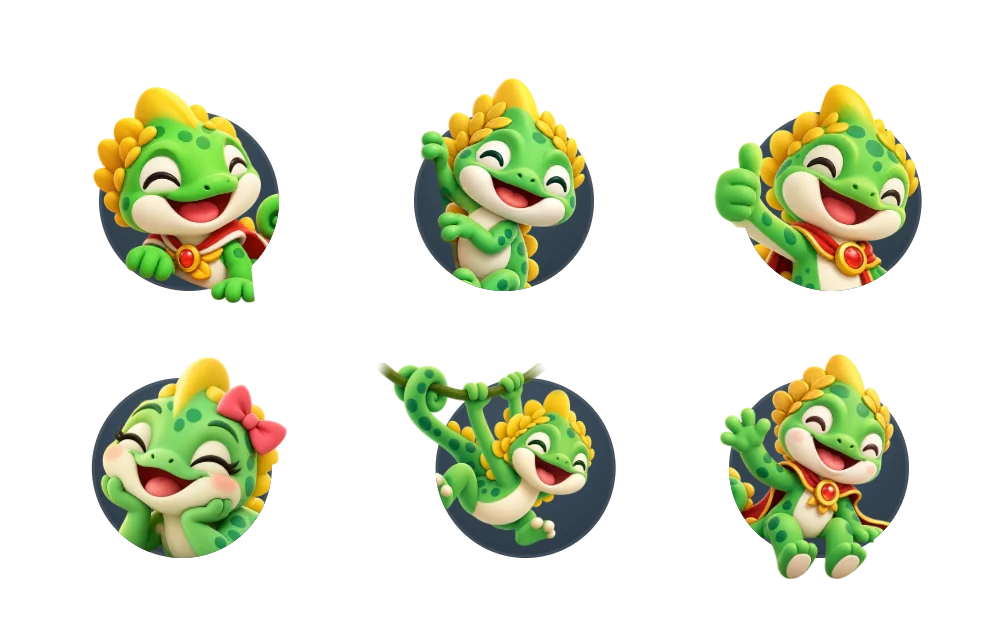
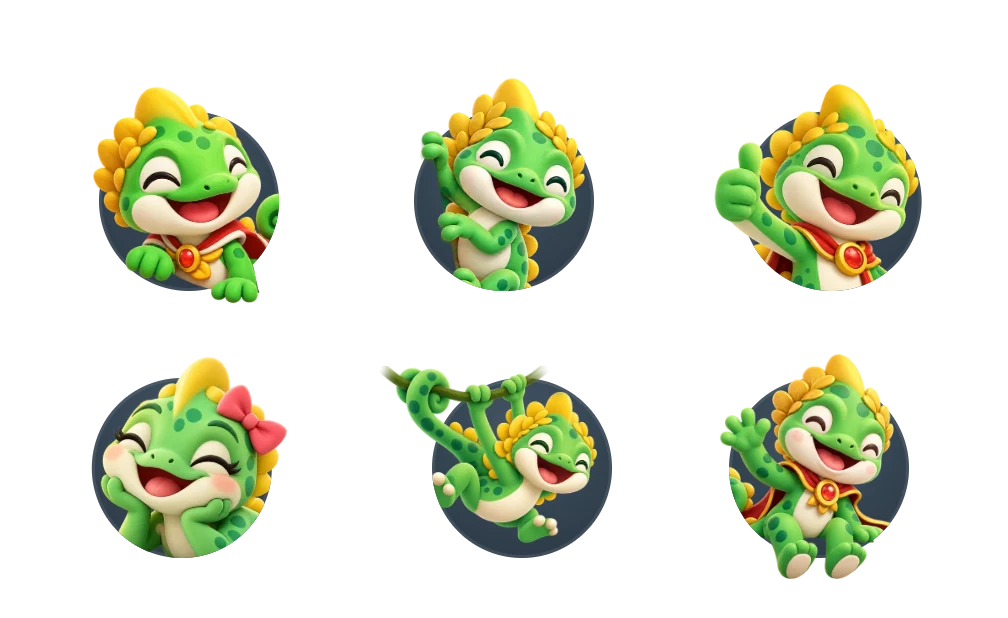
Profilbilder: Freiflaechen ohne gerade Schnitte durch die Figur
Review-Fix zu den Kumulio-Masken. Einige Kanten der Freiflaechen liefen
mitten durch Koerperteile und schnitten sie sichtbar gerade ab:
- Kumulio 1 gross: senkrechter Schnitt durch die rechte Pfote (Profil-Kopf,
  fremdes Profil, Auswahl) — die Kante folgt jetzt dem Arm-Umriss
- Kumulio 1 klein: ein Kamm-Blatt links stand als eckige "Fahne" ab
- Kumulio 3 gross: waagrechter Schnitt durch die helle Arm-Unterseite
- Kumulio 4 gross/klein: Rueckenzacke schraeg bzw. waagrecht angeschnitten
- Kumulio 6 klein: Blatt links und Kamm rechts leicht angeschnitten
Die Bilder im Update-Log sind mit den neuen Masken neu erzeugt.

Changed region(s): [[0.369, 0.5841, 0.6151, 0.8916], [0.246, 0.4304, 0.2768, 0.4919]]

diff --git a/public/app.js b/public/app.js
@@ -3035,7 +3035,8 @@ function refreshProfileTab() {
 //             (Rahmen = 1 × 1, Kreis-Mitte 0,5 / 0,5)
 //   frei    = Vielecke in Bild-Pixeln, die aus dem Kreis ragen duerfen
 //             (alles andere schneidet der Kreis ab). Die Kanten laufen durch
-//             Luecken der Figur, damit nie ein Koerperteil gerade abgeschnitten ist.
+//             Luecken der Figur oder an Umrissen entlang (Arm vor Bein, Schleife
+//             vor Zacke), damit nie ein Koerperteil gerade abgeschnitten ist.
 //   kachel  = nur in der Auswahl: Rahmen seitlich versetzt (Rahmen-Einheiten),
 //             damit Posen, die weit nach einer Seite ragen, mittig wirken
 const AVATAR_BASIS = '/brand/avatare/';
@@ -3044,8 +3045,8 @@ const KUMULIO_AVATARE = {
   // haengt ueber den Ring, der Schwanz verschwindet hinter dem Rahmen
   'kumulio-1': {
     name: 'Entspannt', bild: [745, 749],
-    gross: { w: 1.2, x: -0.03, y: -0.14, frei: [[[-20, -20], [700, -20], [700, 250], [560, 380], [545, 640], [560, 780], [-20, 780]]] },
-    klein: { w: 1.4, x: -0.12, y: -0.1, frei: [[[100, -20], [520, -20], [520, 150], [100, 150]]] },
+    gross: { w: 1.2, x: -0.03, y: -0.14, frei: [[[-20, -20], [700, -20], [700, 250], [560, 380], [548, 560], [543, 600], [550, 620], [555, 640], [559, 660], [563, 680], [567, 700], [571, 712], [575, 780], [-20, 780]]] },
+    klein: { w: 1.4, x: -0.12, y: -0.1, frei: [[[138, -20], [520, -20], [520, 150], [180, 150], [175, 119], [160, 111], [145, 106], [140, 100]]] },
   },
   // Klettert: die obere Hand greift ueber den linken Rand
   'kumulio-2': {
@@ -3056,14 +3057,14 @@ const KUMULIO_AVATARE = {
   // Daumen hoch: Daumen und Arm ragen links heraus
   'kumulio-3': {
     name: 'Daumen hoch', bild: [735, 765], kachel: 0.07,
-    gross: { w: 1.12, x: -0.15, y: -0.15, frei: [[[-20, -20], [755, -20], [755, 480], [300, 540], [120, 525], [-20, 515]]] },
+    gross: { w: 1.12, x: -0.15, y: -0.15, frei: [[[-20, -20], [755, -20], [755, 480], [300, 540], [140, 568], [100, 540], [55, 508], [-20, 508]]] },
     klein: { w: 1.33, x: -0.35, y: -0.12, frei: [[[300, -20], [755, -20], [755, 150], [300, 150]]] },
   },
   // Mit Schleife: liegt unten im Rahmen, Kamm und Schleife ragen heraus
   'kumulio-4': {
     name: 'Mit Schleife', bild: [934, 757], kachel: -0.04,
-    gross: { w: 1.45, x: 0.05, y: -0.12, frei: [[[-20, -20], [680, -20], [680, 360], [540, 420], [-20, 420]]] },
-    klein: { w: 1.58, x: 0.024, y: -0.12, frei: [[[250, -20], [680, -20], [680, 360], [540, 360], [400, 100], [250, 100]]] },
+    gross: { w: 1.45, x: 0.05, y: -0.12, frei: [[[-20, -20], [680, -20], [680, 405], [612, 405], [540, 420], [-20, 420]]] },
+    klein: { w: 1.58, x: 0.024, y: -0.12, frei: [[[250, -20], [680, -20], [680, 300], [655, 300], [640, 317], [627, 329], [616, 339], [604, 345], [590, 350], [576, 355], [540, 360], [400, 100], [250, 100]]] },
   },
   // An der Liane: die Liane laeuft ueber den Rahmen (ihre Enden laufen im
   // Bild weich aus), der Schwanz ist um sie gewickelt
@@ -3076,7 +3077,7 @@ const KUMULIO_AVATARE = {
   'kumulio-6': {
     name: 'Winkt', bild: [703, 731],
     gross: { w: 1.2, x: -0.24, y: -0.13, frei: [[[-20, -20], [723, -20], [723, 340], [-20, 340]], [[270, 600], [610, 600], [640, 760], [270, 760]]] },
-    klein: { w: 1.71, x: -0.647, y: -0.18, frei: [[[380, -20], [700, -20], [700, 110], [380, 110]]] },
+    klein: { w: 1.71, x: -0.647, y: -0.18, frei: [[[372, -20], [700, -20], [700, 100], [580, 100], [575, 110], [400, 110], [385, 100], [372, 70]]] },
   },
 };
 // Nur bekannte IDs; alles andere (auch alte data-URLs aus einem Zwischenspeicher) = kein Bild
